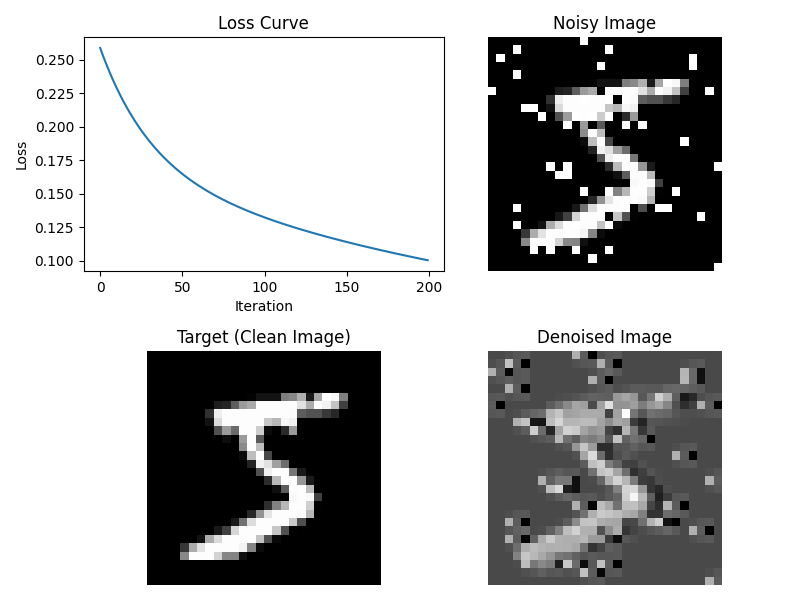
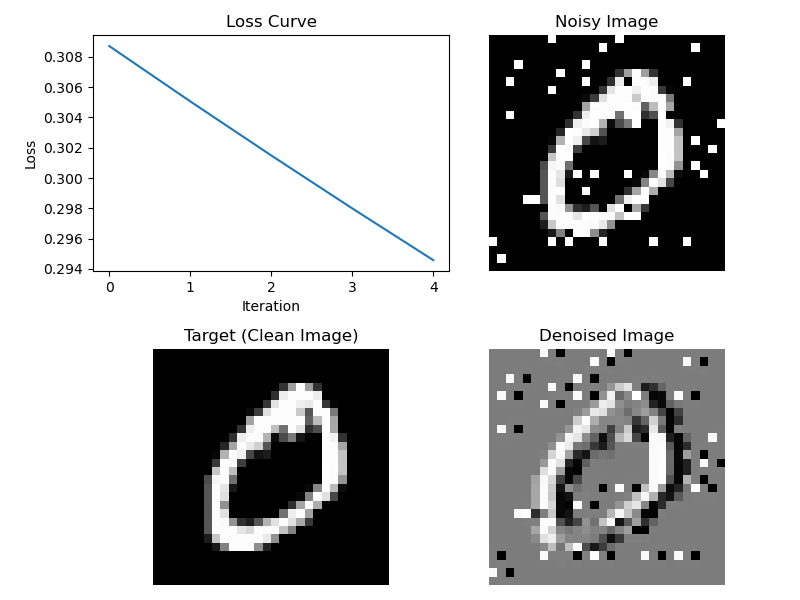
MPI version finished

diff --git a/Project-3/cnn_mpi.py b/Project-3/cnn_mpi.py
@@ -1,18 +1,15 @@
 import numpy as np
-# import matplotlib.pyplot as plt
+import matplotlib.pyplot as plt
 from tensorflow.keras.datasets import mnist
 import jax
 import jax.numpy as jnp
 from jax import grad
 from mpi4py import MPI
-
+import sys
 
 comm = MPI.COMM_WORLD
 rank = comm.Get_rank()
 size = comm.Get_size()
-
-print(f"Init process: {rank} of size {size}")
-
 
 # Define convolution function using JAX
 def convolution_2d(x, kernel):
@@ -66,10 +63,20 @@ loss_grad = grad(loss_fn)
 
 # Training loop
 learning_rate = 0.01
-num_iterations = 200
+num_iterations = 5
 
+if rank == 0:
+    print("image shape: ", x_local.shape)
+    print("kernel shape: ", kernel.shape)
+    print("learning_rate: ", learning_rate)
+    print("num_iterations: ", num_iterations)
+    print("Training start -----------------------------------------------------------------")
+
+sys.stdout.flush()
+comm.Barrier()
 losses = []
 for i in range(num_iterations):
+    start_time = MPI.Wtime()
     gradients_local = loss_grad(kernel, x_local, y_true_local)
     gradients_local = np.array(gradients_local)
     # Reduce gradients across all processes
@@ -83,48 +90,58 @@ for i in range(num_iterations):
     current_loss = loss_fn(kernel, x_local, y_true_local)
     losses.append(current_loss)
     # Print loss every 10 iterations
-    print(f"Iteration {i}, Loss rank {rank}: {current_loss:.4f}")
+    end_time = MPI.Wtime()
+    print(f"Iteration {i}, Loss rank {rank}: {current_loss:.4f}, Time per iteration: {end_time - start_time:.4f}")
+
+sys.stdout.flush()
+comm.Barrier()
 
 if rank == 0:
-    # Visualize results
-    # plt.figure(figsize=(8, 6))
+    print("Training end -----------------------------------------------------------------")
+    print("Final kernel: ", kernel)
+    print("Final loss: ", losses[-1])
+    print("\nSaving results...")
 
-    # # Plot loss over iterations
-    # plt.subplot(2, 2, 1)
-    # plt.plot(losses)
-    # plt.title("Loss Curve")
-    # plt.xlabel("Iteration")
-    # plt.ylabel("Loss")
-    # # plt.savefig('loss_curve.png')
+# Visualize results
+plt.figure(figsize=(8, 6))
 
-    # # Display original noisy image
-    # plt.subplot(2, 2, 2)
-    # plt.imshow(x, cmap='gray')
-    # plt.title("Noisy Image")
-    # plt.axis('off')
-    # # plt.savefig('noisy_image.png')
+# Plot loss over iterations
+plt.subplot(2, 2, 1)
+plt.plot(losses)
+plt.title("Loss Curve")
+plt.xlabel("Iteration")
+plt.ylabel("Loss")
+# plt.savefig('loss_curve.png')
 
-    # # Display target clean image
-    # plt.subplot(2, 2, 3)
-    # plt.imshow(y_true_local, cmap='gray')
-    # plt.title("Target (Clean Image)")
-    # plt.axis('off')
-    # # plt.savefig('clean_image.png')
+# Display original noisy image
+plt.subplot(2, 2, 2)
+plt.imshow(x_local, cmap='gray')
+plt.title("Noisy Image")
+plt.axis('off')
+# plt.savefig('noisy_image.png')
 
-    # # Display denoised image
-    # y_denoised = convolution_2d(x, kernel)
-    # plt.subplot(2, 2, 4)
-    # plt.imshow(y_denoised, cmap='gray')
-    # plt.title("Denoised Image")
-    # plt.axis('off')
-    # # plt.savefig('denoised_image.png')
+# Display target clean image
+plt.subplot(2, 2, 3)
+plt.imshow(y_true_local, cmap='gray')
+plt.title("Target (Clean Image)")
+plt.axis('off')
+# plt.savefig('clean_image.png')
 
-    # plt.tight_layout()
-    # plt.savefig('results.png')
-    # plt.show()
+# Display denoised image
+y_denoised = convolution_2d(x_local, kernel)
+plt.subplot(2, 2, 4)
+plt.imshow(y_denoised, cmap='gray')
+plt.title("Denoised Image")
+plt.axis('off')
+# plt.savefig('denoised_image.png')
 
-    print("Training end")
+plt.tight_layout()
+plt.savefig('results.png')
+plt.show()
 
-
+sys.stdout.flush()
+comm.Barrier()
+if rank == 0:
+    print("Results saved successfully!")
 
 
